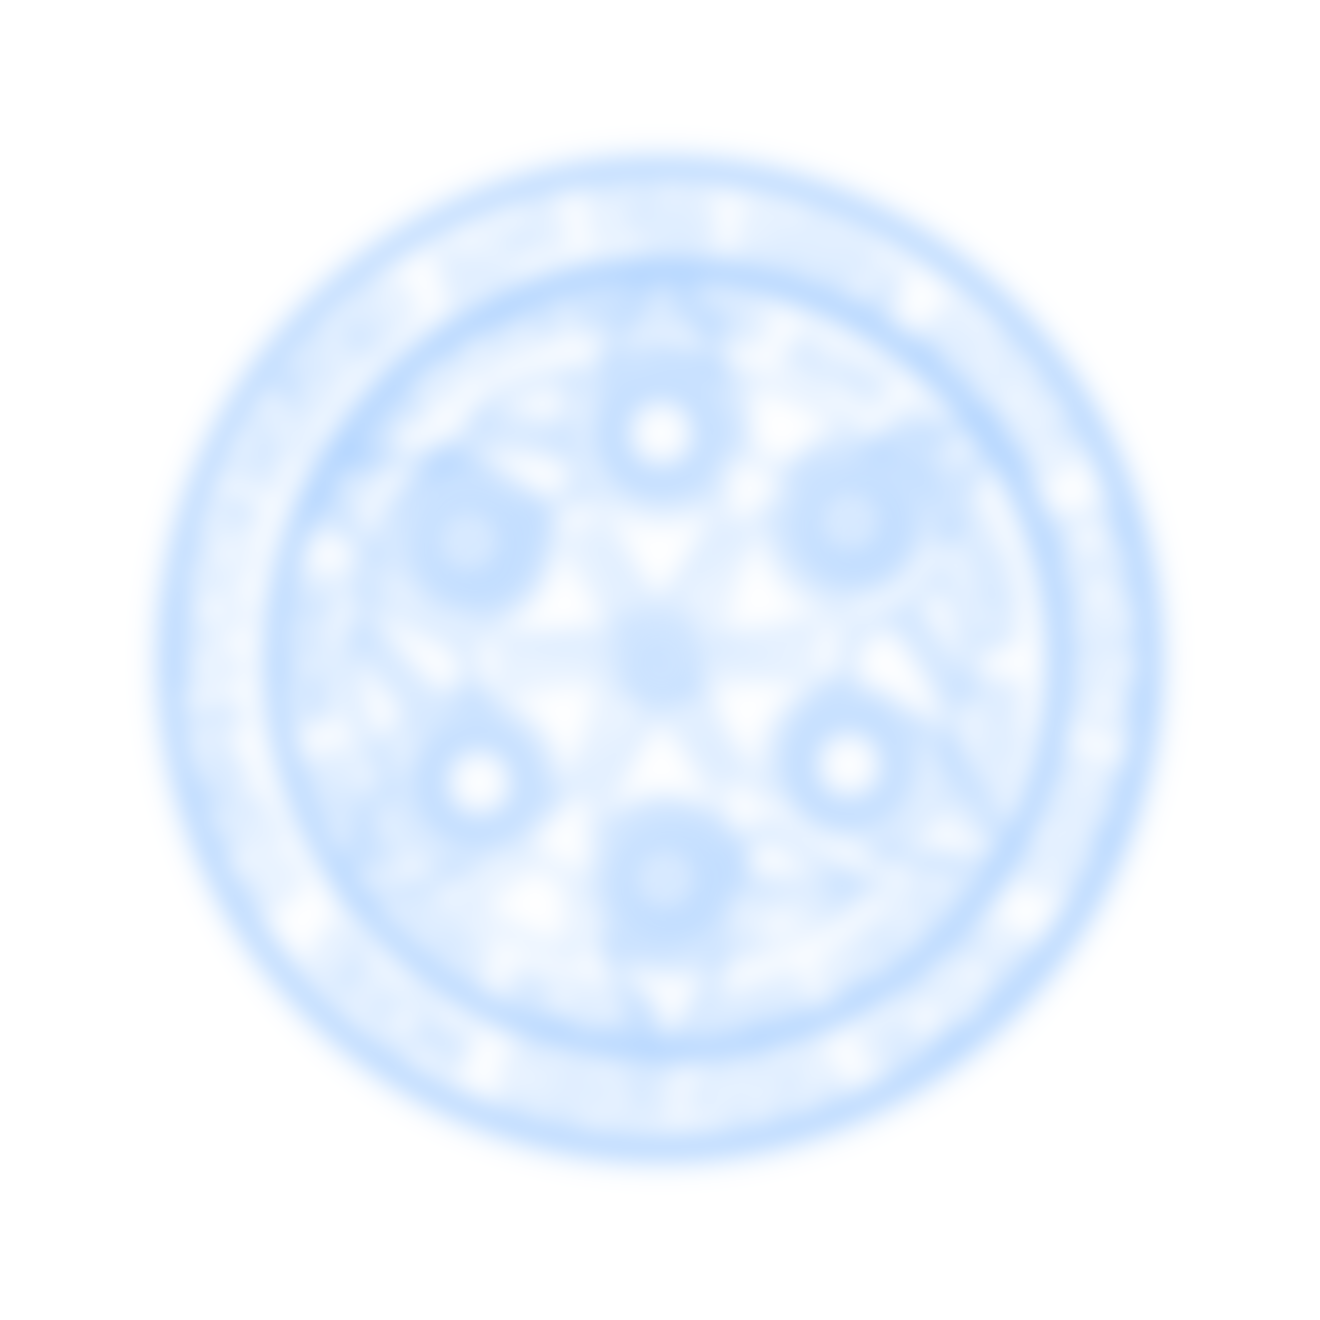
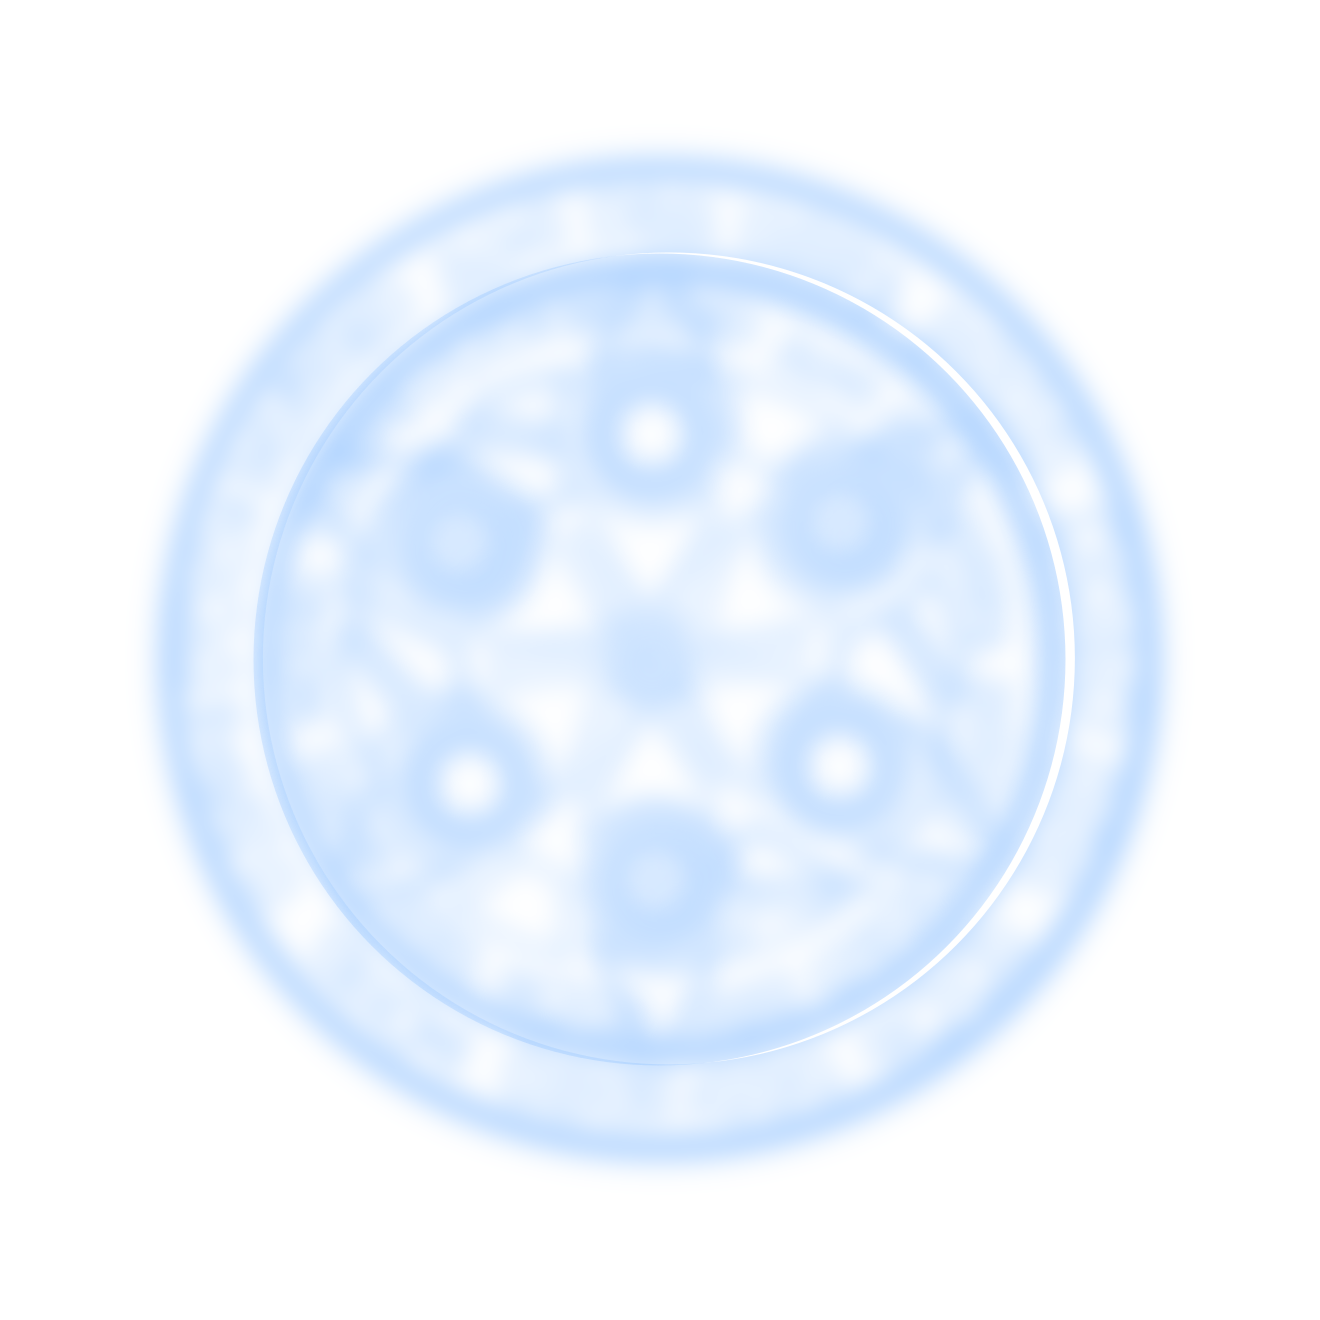
make rofi centered'

diff --git a/notification/notif_daemon.py b/notification/notif_daemon.py
@@ -15,6 +15,7 @@ import re
 import subprocess
 import sys
 import tempfile
+import textwrap
 from pathlib import Path
 
 import dbus
@@ -47,6 +48,20 @@ TAG_RE = re.compile(r"<[^>]+>")
 
 def strip_markup(text):
     return TAG_RE.sub("", text or "").strip()
+
+
+# Tune these: WRAP_WIDTH = max chars per line (longer words get split),
+# MAX_LINES = lines kept before cutting off with "…".
+WRAP_WIDTH = 22
+MAX_LINES = 5
+
+
+def fit_text(text):
+    lines = [line for para in text.split("\n") for line in textwrap.wrap(para, WRAP_WIDTH) or [""]]
+    if len(lines) > MAX_LINES:
+        lines = lines[:MAX_LINES]
+        lines[-1] = lines[-1][: WRAP_WIDTH - 1].rstrip() + "…"
+    return "\n".join(lines)
 
 
 def load_profile_names():
@@ -169,7 +184,7 @@ class NotifDaemon(dbus.service.Object):
     ):
         summary = strip_markup(str(summary))
         body = strip_markup(str(body))
-        text = f"{summary}\n{body}".strip() if body else summary
+        text = fit_text(f"{summary}\n{body}".strip() if body else summary)
 
         profiles = load_profile_names()
         profile = random.choice(profiles)
